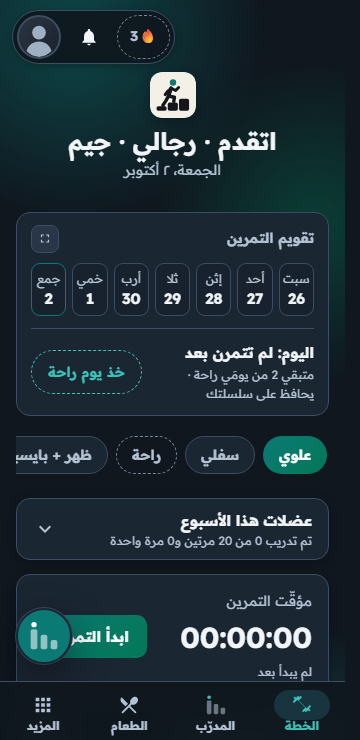
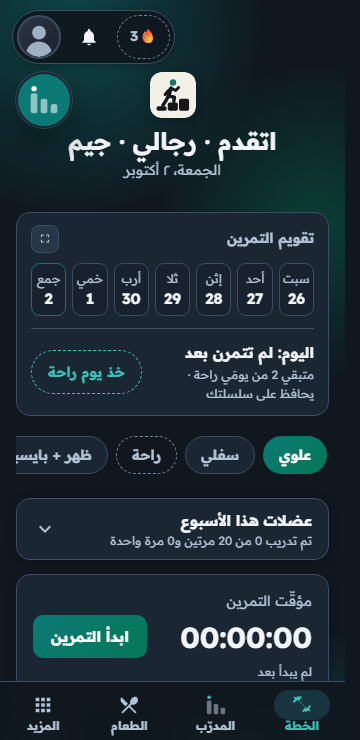
Coach bubble: rest clear of Plan controls, dim while scrolling, stay under the header
The default spot moves to the inline-end edge just under the header pill (the old bottom corner covered the exercise-progress pill and clipped Start Workout). While the page scrolls the bubble shrinks and fades (opacity only with reduced motion) and restores 600 ms after the last scroll. The drag/snap area is clamped below the measured bottom of the header pill (#topBar or #topPrefs), re-clamped on resize, orientation change and when the pill appears or changes size, and applies to a restored saved spot.

Claude-Session: https://claude.ai/code/session_011r8CfaiErq4jcUXWcamjUm

Changed region(s): [[0.0306, 0.8081, 0.2139, 0.9014], [0.0306, 0.0932, 0.2139, 0.1865]]

diff --git a/tests/coach-bubble.spec.js b/tests/coach-bubble.spec.js
@@ -204,7 +204,93 @@ test("a blocked localStorage does not break dragging", async ({ browser }) => {
   await context.close();
 });
 
-test("RTL: the default spot is the bottom inline-end corner (left), and a drag to the right edge sticks", async ({ browser }) => {
+// The header pill (#topBar signed in, #topPrefs signed out) is fixed at the top; the bubble must stay below it.
+const headerBottom = (page) => page.evaluate(() => Math.max(0, ...["topBar", "topPrefs"].map((id) => { const r = document.getElementById(id).getBoundingClientRect(); return r.height > 0 ? r.bottom : 0; })));
+
+for (const [lang, side] of [["en", "r"], ["ar", "l"]]) {
+  test(`a saved spot above the header pill is clamped below it (${lang})`, async ({ browser }) => {
+    const { context, page } = await setup(browser, { lang, ls: { gymcoach_bubble_pos: { side, bottom: 5000 } } });
+    await expect(fab(page)).toBeVisible();
+    await page.waitForTimeout(450);
+    const hb = await headerBottom(page);
+    expect(hb).toBeGreaterThan(40);
+    expect((await rect(page, "#coachFab")).top).toBeGreaterThanOrEqual(hb);
+    await page.setViewportSize({ width: 360, height: 640 }); // re-clamped on resize
+    await page.waitForTimeout(100);
+    expect((await rect(page, "#coachFab")).top).toBeGreaterThanOrEqual(await headerBottom(page));
+    await dragTo(page, 200, -500); // a drag past the top stops under the pill too
+    expect((await rect(page, "#coachFab")).top).toBeGreaterThanOrEqual(await headerBottom(page));
+    await context.close();
+  });
+}
+
+test("the default spot clears the Plan controls at 360x800 and 412x915", async ({ browser }) => {
+  for (const [width, height] of [[360, 800], [412, 915]]) {
+    for (const lang of ["en", "ar"]) {
+      const { context, page } = await setup(browser, { lang, viewport: { width, height } });
+      await page.waitForTimeout(500);
+      const f = await rect(page, "#coachFab");
+      expect(f.top).toBeGreaterThanOrEqual(await headerBottom(page));
+      const hits = await page.evaluate((f) => {
+        const out = [];
+        document.querySelectorAll("#screen-plan button, #screen-plan .progress-pill, #screen-plan summary, #screen-plan a").forEach((e) => {
+          const r = e.getBoundingClientRect();
+          if (r.width && r.height && r.left < f.right && r.right > f.left && r.top < f.bottom && r.bottom > f.top) out.push(e.id || e.className);
+        });
+        return out;
+      }, f);
+      expect(hits, `${lang} ${width}x${height}`).toEqual([]);
+      await context.close();
+    }
+  }
+});
+
+test("scrolling dims the bubble, and it comes back after the scroll stops", async ({ browser }) => {
+  const { context, page } = await setup(browser);
+  await expect(fab(page)).not.toHaveClass(/scrolling/);
+  await page.mouse.move(100, 400);
+  await page.mouse.wheel(0, 300);
+  await expect(fab(page)).toHaveClass(/scrolling/);
+  await page.waitForTimeout(350);
+  const dimmed = await fab(page).evaluate((el) => { const s = getComputedStyle(el); return { op: +s.opacity, tf: s.transform, pe: s.pointerEvents }; });
+  expect(dimmed.op).toBeLessThan(0.6);
+  expect(dimmed.tf).not.toBe("none");
+  expect(dimmed.pe).not.toBe("none");
+  await expect(fab(page)).not.toHaveClass(/scrolling/, { timeout: 1500 });
+  await page.waitForTimeout(350);
+  expect(+(await fab(page).evaluate((el) => getComputedStyle(el).opacity))).toBe(1);
+  await context.close();
+});
+
+test("scrolling dim with reduced motion fades only, no scale", async ({ browser }) => {
+  const { context, page } = await setup(browser);
+  await page.emulateMedia({ reducedMotion: "reduce" });
+  await page.mouse.move(100, 400);
+  await page.mouse.wheel(0, 300);
+  await expect(fab(page)).toHaveClass(/scrolling/);
+  await page.waitForTimeout(350);
+  const s = await fab(page).evaluate((el) => { const c = getComputedStyle(el); return { op: +c.opacity, tf: c.transform }; });
+  expect(s.op).toBeLessThan(0.6);
+  expect(s.tf).toBe("none");
+  await context.close();
+});
+
+test("page bottom padding lets the last Plan element scroll fully above a bubble parked at the bottom", async ({ browser }) => {
+  const { context, page } = await setup(browser, { ls: { gymcoach_bubble_pos: { side: "r", bottom: 0 } } });
+  await page.waitForTimeout(450);
+  await page.evaluate(() => window.scrollTo(0, document.documentElement.scrollHeight));
+  await page.waitForTimeout(900);
+  const last = await page.evaluate(() => {
+    const kids = [...document.querySelectorAll("#screen-plan *")].filter((e) => { const r = e.getBoundingClientRect(); return r.height > 0 && r.width > 0 && e.checkVisibility(); }); // closed <details> content is not shown
+    return Math.max(...kids.map((e) => e.getBoundingClientRect().bottom));
+  });
+  const f = await rect(page, "#coachFab");
+  expect(f.bottom).toBeLessThanOrEqual((await rect(page, "#appNav")).top);
+  expect(last).toBeLessThanOrEqual(f.top);
+  await context.close();
+});
+
+test("RTL: the default spot is the inline-end edge (left), and a drag to the right edge sticks", async ({ browser }) => {
   const { context, page } = await setup(browser, { lang: "ar" });
   expect(await page.evaluate(() => document.documentElement.dir)).toBe("rtl");
   const r = await rect(page, "#coachFab");

diff --git a/styles.css b/styles.css
@@ -762,18 +762,22 @@ body:has(#timerBar.show) #toTop{ opacity:0; pointer-events:none; }
 
 /* ---- floating AI-coach chat bubble ---- */
 /* Opens the coach chat as a sheet over Plan, Food and More. Default spot is the
-   bottom inline-end corner (#toTop takes the other one). chat.js lets the user
+   inline-end edge just under the header pill, beside the logo: on Plan that spot is clear of every
+   control at scroll 0 (Start Workout and the exercise-progress pill sit at the
+   bottom inline-end) and below the header pill (#toTop takes the bottom corner).
+   .screen's bottom padding (nav + 88px) lets the last content scroll clear of a
+   bubble parked at the bottom. chat.js lets the user
    drag it: it sets .moved + data-side (l|r) + an inline `bottom`, and animates
    the snap with a transform. z-index 65 keeps it under the nav, dialogs and toasts. */
 #coachFab{
   position:fixed; inset-inline-end:calc(16px + env(safe-area-inset-right)); z-index:65;
-  bottom:calc(var(--nav-h) + env(safe-area-inset-bottom) + 20px);
+  top:calc(env(safe-area-inset-top) + 72px);
   width:56px; height:56px; border-radius:50%; padding:0; cursor:grab;
   background:var(--primary); border:2px solid var(--surface-2);
   display:flex; align-items:center; justify-content:center;
   touch-action:none; user-select:none; -webkit-user-select:none; -webkit-touch-callout:none;
   box-shadow:var(--elev-2), 0 0 0 1px var(--line);
-  transition:transform var(--dur-fast) var(--ease), background var(--dur-fast) var(--ease);
+  transition:transform var(--dur-fast) var(--ease), opacity var(--dur-med) var(--ease), background var(--dur-fast) var(--ease);
   animation:fabIn var(--dur-med) var(--ease-spring) backwards;
 }
 @keyframes fabIn{ from{ opacity:0; transform:scale(.6); } to{ opacity:1; transform:none; } }
@@ -783,6 +787,10 @@ body:has(#timerBar.show) #toTop{ opacity:0; pointer-events:none; }
 #coachFab:active{ transform:scale(.92); }
 #coachFab:focus-visible{ outline:3px solid var(--accent); outline-offset:3px; }
 #coachFab svg{ width:32px; height:32px; pointer-events:none; }
+/* scrolling: shrink and fade, still tappable; chat.js drops the class ~600ms after the last scroll */
+#coachFab.scrolling{ transform:scale(.8); opacity:.45; }
+@media (prefers-reduced-motion:reduce){ #coachFab.scrolling{ transform:none; } }
+#coachFab.moved{ top:auto; }
 #coachFab.moved[data-side="l"]{ inset-inline:auto; left:calc(16px + env(safe-area-inset-left)); }
 #coachFab.moved[data-side="r"]{ inset-inline:auto; right:calc(16px + env(safe-area-inset-right)); }
 #coachFab.dragging{ cursor:grabbing; transition:none; animation:none; box-shadow:var(--elev-3, var(--elev-2)), 0 0 0 1px var(--line); }
@@ -807,7 +815,7 @@ body:has(.celebrate-card.show) #coachFab{ display:none; }
   /* the bottom nav becomes a fixed rail on the inline-start edge (#appNav,
      below): the default spot stays on the free end, and a bubble parked on the
      rail's side sits beside the rail, never under it. */
-  #coachFab{ bottom:24px; }
+  #coachFab{ top:auto; bottom:24px; }
   #coachFab.moved[data-side="l"]{ left:calc(var(--side-w) + 16px); }
   [dir="rtl"] #coachFab.moved[data-side="l"]{ left:calc(16px + env(safe-area-inset-left)); }
   [dir="rtl"] #coachFab.moved[data-side="r"]{ right:calc(var(--side-w) + 16px); }

diff --git a/chat.js b/chat.js
@@ -27,6 +27,7 @@
   var MSG_MAX = 600;      // mirrors the backend's per-message cap
   var POS_KEY = "gymcoach_bubble_pos";
   var DRAG_PX = 6;         // less movement than this is a tap, not a drag
+  var SCROLL_REST_MS = 600; // the bubble restores this long after scrolling stops
   var EDGE_GAP = 12;       // space kept between the button and the screen edge / nav
   var SWIPE_CLOSE_PX = 90; // sheet swipe-down distance that closes it
 
@@ -268,6 +269,19 @@
     return p && (p.side === "l" || p.side === "r") && isFinite(p.bottom) ? p : null;
   }
   function clamp(v, lo, hi) { return Math.min(Math.max(v, lo), hi); }
+  // Bottom edge of the sticky header pill (#topBar when signed in, #topPrefs
+  // when not), measured so the safe-area inset and the pill's real height are
+  // included; 64 is the fallback when neither is on screen.
+  function headerBottom() {
+    var bottom = 0;
+    ["topBar", "topPrefs"].forEach(function (id) {
+      var el = document.getElementById(id);
+      if (!el) return;
+      var r = el.getBoundingClientRect();
+      if (r.height > 0 && r.width > 0) bottom = Math.max(bottom, r.bottom);
+    });
+    return bottom || 64;
+  }
   // Where the button may sit: above the bottom nav, below the top bar, and
   // (on desktop, where the nav is a side rail) beside the rail, never over it.
   function bounds() {
@@ -276,11 +290,9 @@
     var nav = document.getElementById("appNav");
     var nr = nav ? nav.getBoundingClientRect() : null;
     var rail = !!nr && nr.width > 0 && nr.width < vw / 2;
-    var bar = document.getElementById("topBar");
-    var br = bar ? bar.getBoundingClientRect() : null;
     var rtl = document.documentElement.dir === "rtl";
     var minBottom = rail ? 24 : (nr && nr.height ? vh - nr.top + EDGE_GAP : EDGE_GAP);
-    var topLimit = br && br.height ? br.bottom + EDGE_GAP : 64;
+    var topLimit = headerBottom() + EDGE_GAP;
     return {
       vw: vw, vh: vh, size: size, minBottom: minBottom, topLimit: topLimit,
       maxBottom: Math.max(minBottom, vh - topLimit - size),
@@ -356,8 +368,27 @@
       e.preventDefault();
     }, true);
     window.addEventListener("resize", applyPos);
+    window.addEventListener("orientationchange", applyPos);
+    // the header pill appears, disappears and changes size after load (sign-in,
+    // language switch), so a restored spot is re-clamped whenever it does
+    if (window.ResizeObserver) {
+      var ro = new ResizeObserver(applyPos);
+      ["topBar", "topPrefs"].forEach(function (id) { var el = document.getElementById(id); if (el) ro.observe(el); });
+    }
     pos = loadPos();
     applyPos();
+    wireScrollDim();
+  }
+  // While the page scrolls the button shrinks and fades (CSS .scrolling) so it
+  // never hides what is being read; it comes back SCROLL_REST_MS after the last scroll.
+  function wireScrollDim() {
+    var t = 0;
+    document.addEventListener("scroll", function () {
+      if (open) return;
+      fab.classList.add("scrolling");
+      clearTimeout(t);
+      t = setTimeout(function () { fab.classList.remove("scrolling"); }, SCROLL_REST_MS);
+    }, { capture: true, passive: true });
   }
 
   // ---------------- screen-aware suggestions ----------------

diff --git a/motion.css b/motion.css
@@ -317,6 +317,7 @@ html[data-reduce-motion="1"] .wm-chev{ transition:none; }
 html[data-reduce-motion="1"] #timerBar,
 html[data-reduce-motion="1"] #timerBar.show{ transition:none; transform:none; }
 html[data-reduce-motion="1"] #timerBar.done:not(.show){ transition-delay:0s; }
+html[data-reduce-motion="1"] #coachFab.scrolling{ transform:none; }
 html[data-reduce-motion="1"] *,
 html[data-reduce-motion="1"] *::before,
 html[data-reduce-motion="1"] *::after{ animation-duration:.001ms !important; animation-iteration-count:1 !important; transition-duration:.001ms !important; }
